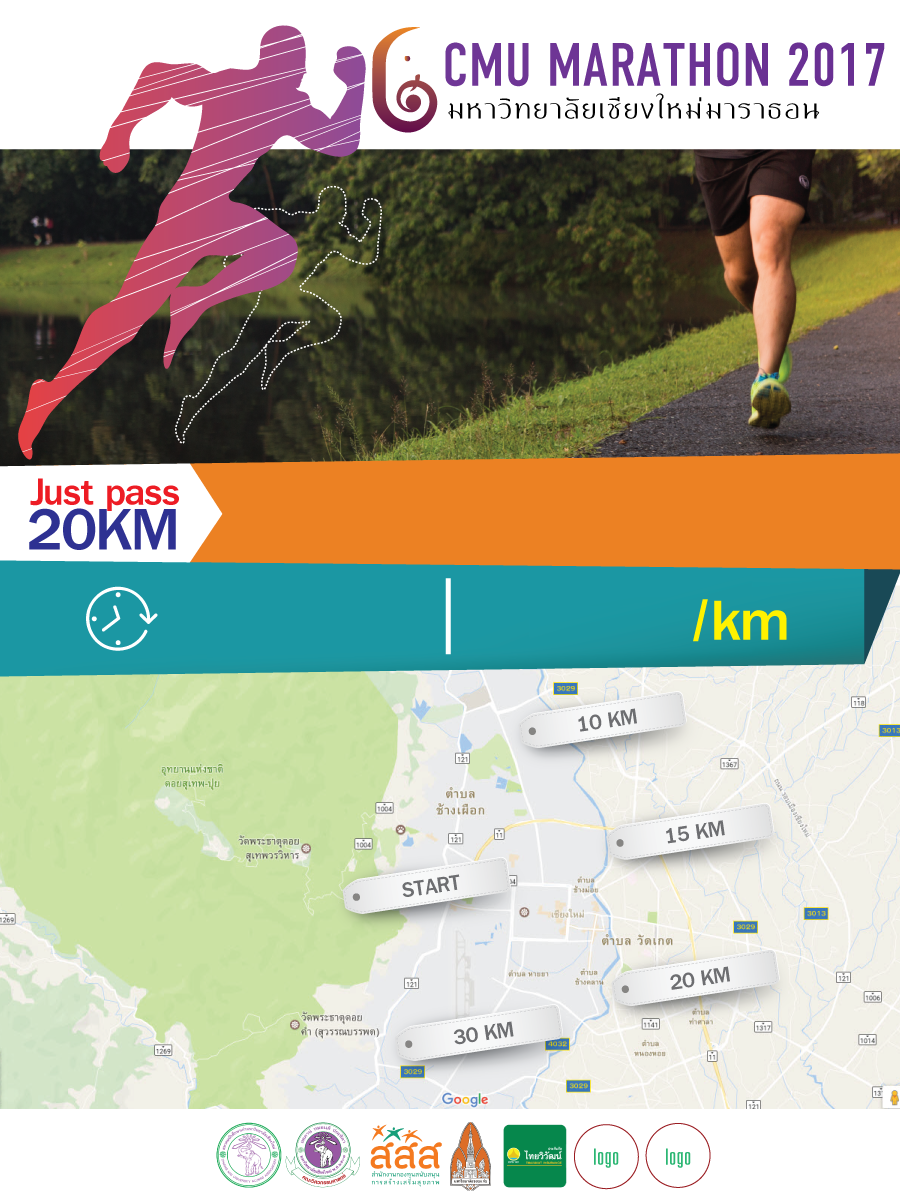
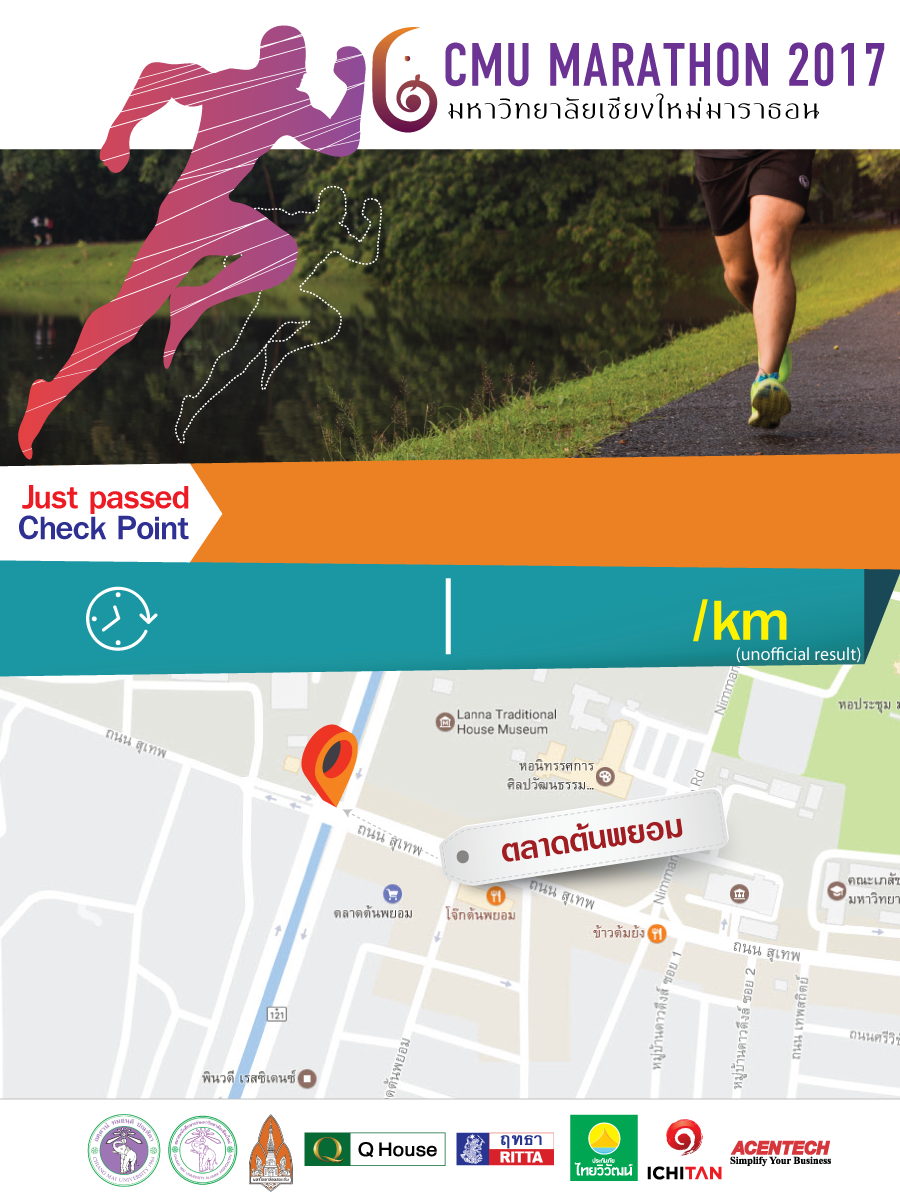
update distance

diff --git a/worker.php b/worker.php
@@ -11,27 +11,21 @@ function clean($in)
   return $h;
 }
 
-function calculate_pace($time, $cp)
+function calculate_pace($time, $cp, $type)
 {
-  // special case
-  if($cp == 's') {
-    return 'N/A';
-  } else if($cp == 'f') {
-    $distance = 42.195;
-  } else {
-    $distance = (int)$cp * 10;
-  }
+  global $distance;
+  $dist = $distance[$type][$cp];
   // in case of no hour
   $str_time = preg_replace("/^([\d]{1,2})\:([\d]{2})$/", "00:$1:$2", $time);
   // split into h/m/s
   sscanf($str_time, "%d:%d:%d", $hours, $minutes, $seconds);
   $time_seconds = $hours * 3600 + $minutes * 60 + $seconds;
-  $pace_seconds = $time_seconds / $distance;
+  $pace_seconds = $time_seconds / $dist;
   // pace in min'sec" per kilometer format
   return ((int)($pace_seconds / 60)) . "'" . ($pace_seconds % 60) . '"';
 }
 
-function post_facebook($access_token, $cp, $name, $time, &$api_response) 
+function post_facebook($access_token, $cp, $name, $time, $type, &$api_response) 
 {
   global $app_id;
   global $app_secret;
@@ -52,7 +46,7 @@ function post_facebook($access_token, $cp, $name, $time, &$api_response)
     return 500;
   }
   if($user) {
-    $pace = calculate_pace($time, $cp);
+    $pace = calculate_pace($time, $cp, $type);
     // construct post body
     $image_query = 'cp=' . urlencode($cp) . '&name=' . urlencode($name) . '&time=' . urlencode($time) . '&pace=' . urlencode($pace);
     $image = $image_base . '?' . $image_query;
@@ -130,17 +124,29 @@ if($is_parent) {
   while(true) {
     // check my queue
     if(($doc = $myCol->findOne())!= NULL) {
+      $bib = $doc['bib'];
+      $cp = $doc['cp'];
+      $runner = $doc['runner'];
+      $time = $doc['time'];
+      $token = $doc['token'];
       // got a request, check if it's dubplicated
-      if($db->postlog->count(array('bib' => $doc['bib'], 'cp' => $doc['cp'])) == 0) {
-        echo "Child " . $my_count . " post FB bib:" . $doc['bib'] . " cp:" . $doc['cp']. "\n";
+      if($db->postlog->count(array('bib' => $bib, 'cp' => $cp)) == 0) {
+        echo "Child " . $my_count . " post FB bib:" . $bib . " cp:" . $cp. "\n";
         // post facebook
-        $ret = post_facebook($doc['token'], $doc['cp'], $doc['runner'], $doc['time'] , $api_response);
+        if($bib <= $full_max) { //1 <= full <= 1000
+          $type = 'f';
+        } else if($bib = $half_max) { // 1001 <= half <= 3000
+          $type = 'h';
+        } else { // 3001 <= mini <== 9999
+          $type = 'm';
+        }
+        $ret = post_facebook($token, $cp, $runner, $time , $type, $api_response);
         // save response for future use
         $db->fbresponse->insert(array(
-            'bib'=>$doc['bib'],
-            'token'=>$doc['token'],
-            'cp'=>$doc['cp'],
-            'time'=>$doc['time'],
+            'bib'=>$bib,
+            'token'=>$token,
+            'cp'=>$cp,
+            'time'=>$time,
             'response'=>json_decode($api_response->getBody())
         ));
         if($ret == 200 || $ret == 404) {

diff --git a/post-update.php b/post-update.php
@@ -110,11 +110,12 @@ if($type == 'json') {
   <tr><td>BIB:</td><td><input type="text" name="bib" /></td></tr>
   <tr><td>CP:</td><td>
   <select name="cp">
-  <option value="s">Start</option>
-  <option value="1">10k</option>
-  <option value="2">20k</option>
-  <option value="3">30k</option>
-  <option value="f">Finished</option>
+  <option value="s">CPS Start</option>
+  <option value="1">CP1 ห้วยตึงเฒ่า</option>
+  <option value="2">CP2 แยกต้นพยอม</option>
+  <option value="3">CP3 แยกต้นเกว๋น</option>
+  <option value="4">CP4 พืชสวนโลก</option>
+  <option value="f">CPF Finished</option>
   </select></td></tr>
   <tr><td>time:</td><td><input type="text" name="time" /> (time format: HH:MM:SS)</td></tr>
   <tr><td><input type="submit" /></td><td><td></tr>
